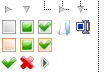
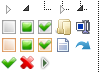
增加了tree的图标显示

diff --git a/app/assets/stylesheets/amalgam/admin/tree/style.css b/app/assets/stylesheets/amalgam/admin/tree/style.css
@@ -12,6 +12,8 @@
 .tree-container .jstree-open > ins { background-position:-72px 0; }
 .tree-container .jstree-closed > ins { background-position:-54px 0; }
 .tree-container .jstree-leaf > ins { background-position:-36px 0; }
+.tree-container .jstree-leaf a .jstree-icon { background-position:-56px -38px; }
+.tree-container .redirect > a .jstree-icon { background-position:-72px -38px; }
 
 .tree-container a { border-radius:4px; -moz-border-radius:4px; -webkit-border-radius:4px; text-shadow:1px 1px 1px white; }
 .tree-container .jstree-hovered { background:#e7f4f9; border:1px solid #d8f0fa; padding:0 3px 0 1px; text-shadow:1px 1px 1px silver; }

diff --git a/spec/dummy/app/models/page.rb b/spec/dummy/app/models/page.rb
@@ -4,15 +4,22 @@ class Page < ActiveRecord::Base
   include Amalgam::Types::Taggable
   cattr_accessor :admin_attrs
   attr_accessible :created_at, :as => :admin
-  self.admin_attrs = [:slug, :title, :identity,:created_at]
+  self.admin_attrs = [:slug, :title, :identity,:created_at, :redirect]
   has_many :posts
 
   taggable
-  taggable_as :skills
 
   def template_keys
     keys = []
     keys << self.slug
     keys
+  end
+
+  alias_method :old_to_nodes, :to_nodes
+
+  def to_nodes(fields=[])
+    hash = old_to_nodes(fields)
+    hash['attr']['class'] = "redirect" if self.redirect
+    hash
   end
 end
